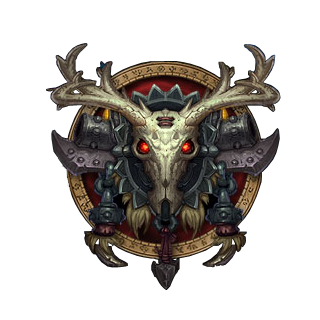
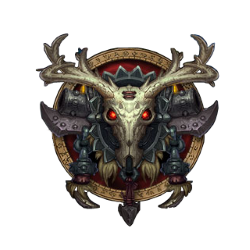
Table Membre
Redimensionnement image et placement fait

diff --git a/src/KWTBundle/Resources/public/css/main.css b/src/KWTBundle/Resources/public/css/main.css
@@ -217,10 +217,66 @@ body{
     height: 250px;
     width: 250px;
 }
+#crestDruid{
+    background: url(../images/crest/druid_crest.png) 0 0 !important;
+    height: 250px;
+    width: 250px;
+}
+#crestHunter{
+    background: url(../images/crest/hunter_crest.png) 0 0 !important;
+    height: 250px;
+    width: 250px;
+}
+#crestMage{
+    background: url(../images/crest/mage_crest.png) 0 0 !important;
+    height: 250px;
+    width: 250px;
+}
+#crestMonk{
+    background: url(../images/crest/monk_crest.png) 0 0 !important;
+    height: 250px;
+    width: 250px;
+}
+#crestPala{
+    background: url(../images/crest/paladin_crest.png) 0 0 !important;
+    height: 250px;
+    width: 250px;
+}
+#crestPriest{
+    background: url(../images/crest/priest_crest.png) 0 0 !important;
+    height: 250px;
+    width: 250px;
+}
+#crestRogue{
+    background: url(../images/crest/rogue_crest.png) 0 0 !important;
+    height: 250px;
+    width: 250px;
+}
+#crestCham{
+    background: url(../images/crest/shaman_crest.png) 0 0 !important;
+    height: 250px;
+    width: 250px;
+}
+#crestWarlock{
+    background: url(../images/crest/warlock_crest.png) 0 0 !important;
+    height: 250px;
+    width: 250px;
+}
+#crestWar{
+    background: url(../images/crest/warrior_crest.png) 0 0 !important;
+    height: 250px;
+    width: 250px;
+}
 
 
+.tableMembre{
+  width: 100%;
+  text-align: center;
+}
 
-
+ul.megaliste {
+    list-style-type:none;
+}
 
 
 
